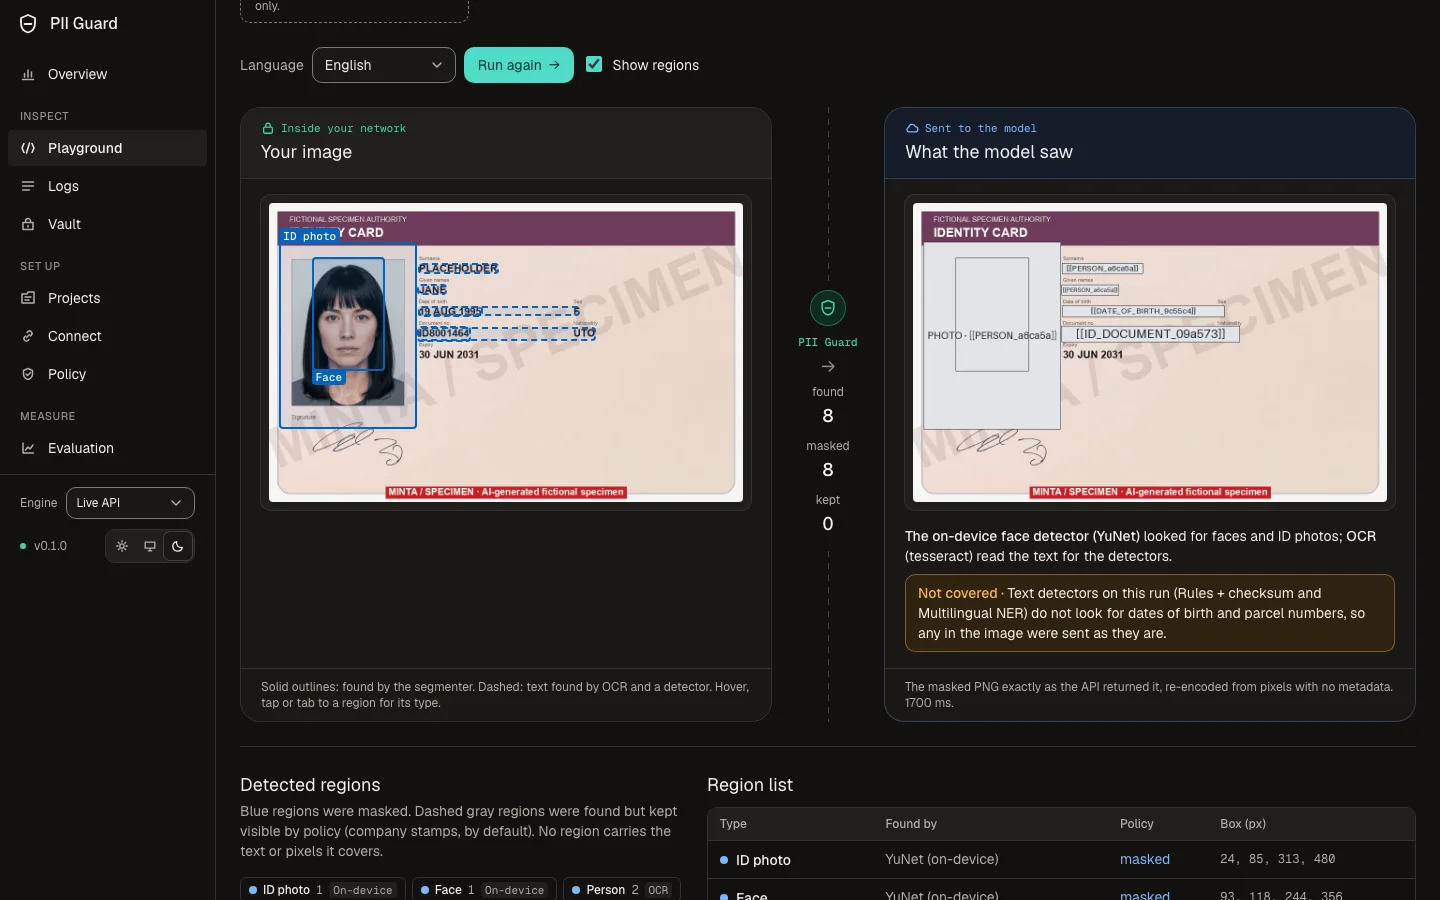
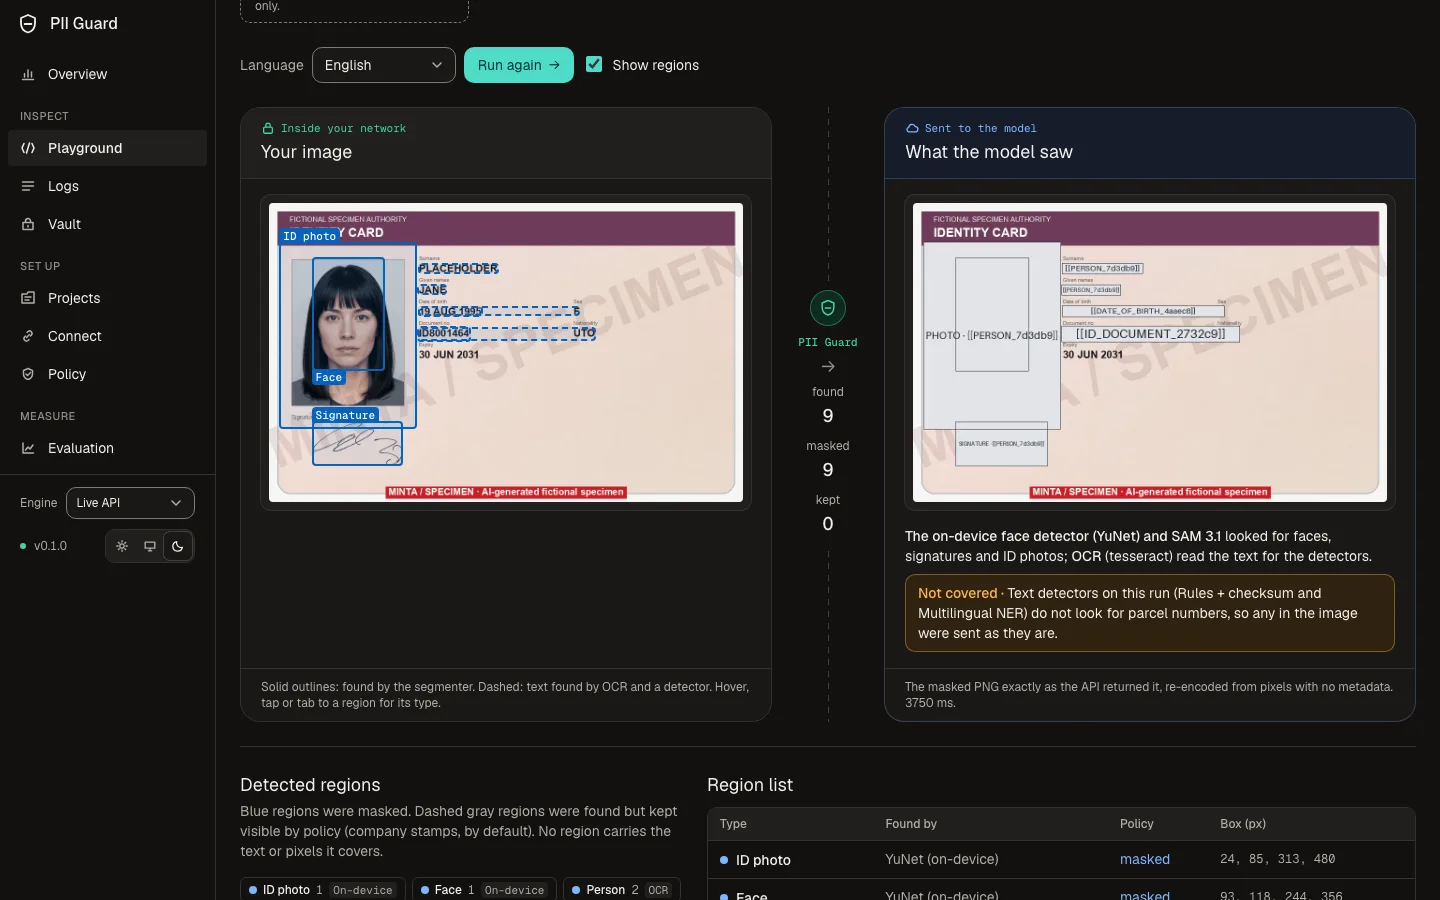
docs(demo): Images shot with SAM 3.1 masking the signature, Logs without a refused call (LAB-1669)
Re-captured 3-images, 6-traffic, 8-traffic-mobile, 2-chat, 7-traffic-charts and the
demo.webp Overview/Chat/Logs frames on the default hybrid segmenter with SAM 3.1:
the ID card's signature is covered. The demo scenarios are sent without hu-image (it is
refused only when no SAM key is set), so Logs shows 0 blocked or failed. The Images
note is taken on top of the LAB-1684 fix.

diff --git a/ui/README.md b/ui/README.md
@@ -59,7 +59,7 @@ Dark theme, fast mode (rules + the published NER), mock upstream, fictional Engl
 | | |
 |---|---|
 | [![Playground, Text tab, dark theme: a fictional English support email with every value highlighted, names included, and what the model saw with typed placeholders in their place](../docs/assets/demo/1-mask.webp)](../docs/assets/demo/1-mask.webp) | [![Playground, Chat tab, dark theme: a message sent through the gateway in fast mode; the model received placeholders for the names, email, phone and IBAN, and the echoed answer came back restored](../docs/assets/demo/2-chat.webp)](../docs/assets/demo/2-chat.webp) |
-| [![Playground, Images tab, dark theme: a fictional English ID card masked on-device, the face and ID photo found by YuNet and the name, date of birth and document number found by OCR and the text detectors, each covered with its placeholder](../docs/assets/demo/3-images.webp)](../docs/assets/demo/3-images.webp) | [![Logs, dark theme: calls through the gateway with their entity types, and the latest call's details (fast mode, Multilingual NER and Rules, mock upstream) and timing](../docs/assets/demo/6-traffic.webp)](../docs/assets/demo/6-traffic.webp) |
+| [![Playground, Images tab, dark theme: a fictional English ID card masked in fast mode: the face and ID photo found on-device by YuNet, the signature by SAM 3.1, and the name, date of birth and document number found by OCR and the text detectors, each covered with its placeholder](../docs/assets/demo/3-images.webp)](../docs/assets/demo/3-images.webp) | [![Logs, dark theme: calls through the gateway with their entity types, and the latest call's details (fast mode, Multilingual NER and Rules, mock upstream) and timing](../docs/assets/demo/6-traffic.webp)](../docs/assets/demo/6-traffic.webp) |
 | [![Overview, dark theme: the live latency charts, overhead per call, overhead by mode, where the time goes and values masked per minute](../docs/assets/demo/7-traffic-charts.webp)](../docs/assets/demo/7-traffic-charts.webp) | [![Evaluation, dark theme: the benchmark headline and every test set at a glance](../docs/assets/demo/4-benchmarks.webp)](../docs/assets/demo/4-benchmarks.webp) |
 
 At phone width: [Text, what the model saw](../docs/assets/demo/5-mask-mobile.webp) ·

diff --git a/ui/DESIGN.md b/ui/DESIGN.md
@@ -271,15 +271,15 @@ still. Restored values flash once. New motion runs only with
 ## Screenshots
 
 README screenshots (`docs/assets/demo/`) come from `make demo` in fast mode (rules + the
-published NER) on the mock upstream, on free ports (`scripts/demo.py --mock
---api-port … --ui-port …`), with `scripts/demo_traffic.py` sent through it and the English
-support ticket masked in Text and sent in Chat, in the dark theme (`pii-guard:theme` = `dark`
-in localStorage), captured by headless Chromium at 1440 × 900 (phone shots 375 × 812 at 2×) and
-encoded with `cwebp -q 82`. The Images shot is a live on-device run of the English ID card:
-the API runs with `PII_GUARD_SEGMENTER=local` and `PII_GUARD_POLICY_OVERRIDES=SIGNATURE=keep,STAMP=keep`
-(the legacy local preview policy, since signatures need SAM 3.1), so no image leaves the machine.
-`demo.webp` is six frames at 2.4 s each (`img2webp -lossy -q 78`): Overview, Text masked and
-then scrolled to the output, Chat, Logs, Connect.
+published NER) on the mock upstream, on free ports (`scripts/demo.py --api-port … --ui-port …`),
+with the default `hybrid` segmenter and SAM 3.1 (a Meta API key in the API's environment), in
+the dark theme (`pii-guard:theme` = `dark` in localStorage). The demo scenarios
+(`pii_guard.bench.scenarios`) are sent through it except `hu-image`, which only keeps SAM calls
+down (without a SAM key it is refused, and with one it is masked); then the English support ticket
+is masked in Text and sent in Chat, and the English ID card is masked once in Images (two SAM
+prompts, for the signature). Headless Chromium at 1440 × 900 (phone shots 375 × 812 at 2×),
+encoded with `cwebp -q 82`. `demo.webp` is six frames at 2.4 s each (`img2webp -lossy -q 78`):
+Overview, Text masked and then scrolled to the output, Chat, Logs, Connect.
 
 ## Copy
 
